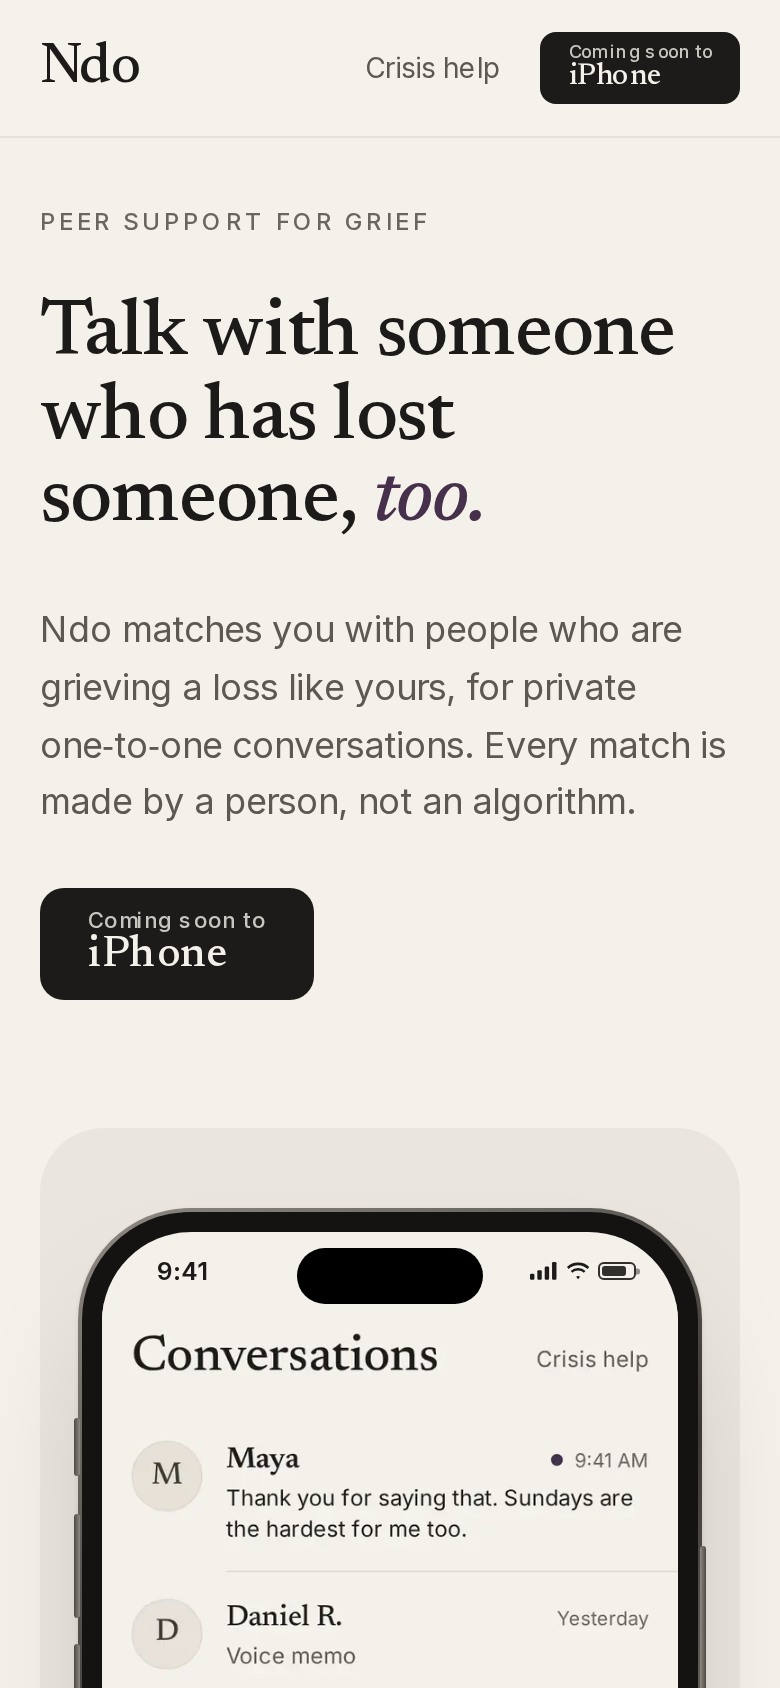
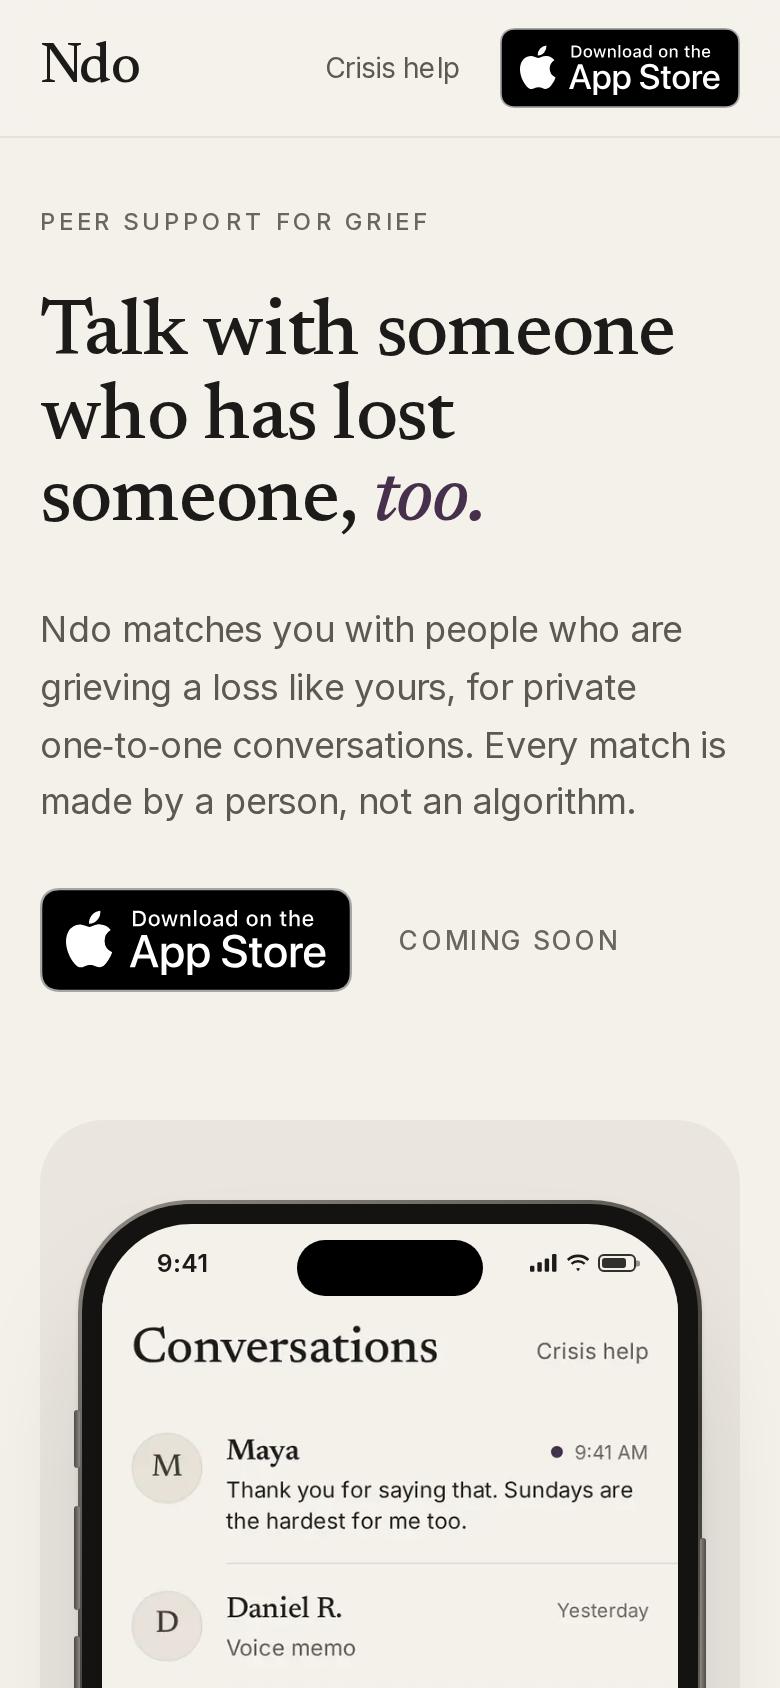
Landing page: use Apple's official App Store badge
Replace the typeset "Coming soon to iPhone" badge with Apple's official
"Download on the App Store" artwork (black on light, white on dark), in the
hero, the closing call to action and the header. Until
NEXT_PUBLIC_APP_STORE_URL is set the badge isn't a link and carries a small
"Coming soon" note; once set it links to the listing.

Claude-Session: https://claude.ai/code/session_012wpWnDNLDnNQM6JjDCQXRp

diff --git a/web/src/app/page.tsx b/web/src/app/page.tsx
@@ -45,31 +45,31 @@ const principles = [
   },
 ];
 
-function GetTheApp() {
-  if (APP_STORE_URL) {
-    return (
-      <div className="cta">
-        <a className="button" href={APP_STORE_URL}>
-          Download for iPhone
-        </a>
-      </div>
-    );
-  }
-  return (
-    <div className="cta">
-      <ComingSoon />
-    </div>
+// Apple's official "Download on the App Store" badge (from Apple's marketing
+// tools; don't redraw or alter it). Black on light pages, white on dark.
+// Until the listing exists it isn't a link and carries a "Coming soon" note;
+// set NEXT_PUBLIC_APP_STORE_URL and it links straight to the App Store.
+function AppStoreBadge({ size = "large" }: { size?: "large" | "small" }) {
+  const badge = (
+    <span className={`badge badge-${size}`}>
+      {/* eslint-disable-next-line @next/next/no-img-element */}
+      <img className="only-light" src="/app-store-badge-black.svg" alt="Download on the App Store" />
+      {/* eslint-disable-next-line @next/next/no-img-element */}
+      <img className="only-dark" src="/app-store-badge-white.svg" alt="Download on the App Store" />
+    </span>
   );
+  if (APP_STORE_URL) {
+    return <a href={APP_STORE_URL}>{badge}</a>;
+  }
+  return badge;
 }
 
-// Shaped like an App Store badge but plainly not a link: there is no listing
-// yet. Apple's own badge replaces it once NEXT_PUBLIC_APP_STORE_URL is set.
-function ComingSoon({ compact = false }: { compact?: boolean }) {
+function GetTheApp() {
   return (
-    <span className={compact ? "soon soon-compact" : "soon"}>
-      <span className="soon-small">Coming soon to</span>
-      <span className="soon-large">iPhone</span>
-    </span>
+    <div className="cta">
+      <AppStoreBadge />
+      {!APP_STORE_URL && <span className="cta-note">Coming soon</span>}
+    </div>
   );
 }
 
@@ -88,13 +88,7 @@ export default function Home() {
           <nav className="header-links" aria-label="Page">
             <a href="#how">How it works</a>
             <a href="#crisis">Crisis help</a>
-            {APP_STORE_URL ? (
-              <a className="button button-compact" href={APP_STORE_URL}>
-                Get the app
-              </a>
-            ) : (
-              <ComingSoon compact />
-            )}
+            <AppStoreBadge size="small" />
           </nav>
         </div>
       </header>

diff --git a/web/src/app/globals.css b/web/src/app/globals.css
@@ -234,51 +234,40 @@ img {
   font-size: 0.875rem;
 }
 
-/* Shaped like an App Store badge, in ink. Not a link: there's no listing yet. */
-.soon {
-  display: inline-flex;
-  flex-direction: column;
-  justify-content: center;
-  min-height: 3.5rem;
-  padding: 0 1.5rem;
-  border-radius: 0.75rem;
-  background: var(--ink);
-  color: var(--paper);
-  line-height: 1.1;
-  cursor: default;
-  user-select: none;
+/* Apple's badge artwork. Apple's minimum on-screen height is 40px. */
+.badge {
+  display: inline-block;
+  line-height: 0;
 }
 
-.soon-small {
-  font-size: 0.6875rem;
-  font-weight: 500;
-  letter-spacing: 0.02em;
-  opacity: 0.8;
+.badge img {
+  width: auto;
+  max-width: none;
 }
 
-.soon-large {
-  font-family: var(--serif);
-  font-size: 1.375rem;
-  font-weight: 500;
-  letter-spacing: -0.01em;
+.badge-large img {
+  height: 3.25rem;
 }
 
-.soon-compact {
-  min-height: 2.25rem;
-  padding: 0 0.875rem;
+.badge-small img {
+  height: 2.5rem;
+}
+
+a:has(> .badge) {
+  display: inline-block;
   border-radius: 0.5rem;
+  transition: opacity 150ms ease;
 }
 
-.soon-compact .soon-small {
-  font-size: 0.5625rem;
-}
-
-.soon-compact .soon-large {
-  font-size: 0.9375rem;
+a:has(> .badge):hover {
+  opacity: 0.85;
 }
 
 .cta-note {
-  font-size: 0.9375rem;
+  font-size: 0.8125rem;
+  font-weight: 500;
+  letter-spacing: 0.12em;
+  text-transform: uppercase;
   color: var(--ink-3);
 }
 

diff --git a/docs/redesign/README.md b/docs/redesign/README.md
@@ -68,8 +68,9 @@ Sections, top to bottom: hero with the app, a short statement, how it works
 to expect (people not AI, adults only, you're in control, peer support not
 therapy), crisis help, and a closing call to action.
 
-Until `NEXT_PUBLIC_APP_STORE_URL` is set, the call to action reads "Coming soon
-to iPhone". Still needed before launch: privacy policy and terms pages, a
+The call to action is Apple's official "Download on the App Store" badge. Until
+`NEXT_PUBLIC_APP_STORE_URL` is set it carries a "Coming soon" note and doesn't
+link anywhere. Still needed before launch: privacy policy and terms pages, a
 favicon and share image, and the domain.
 
 ## Viewing it yourself

diff --git a/web/README.md b/web/README.md
@@ -18,8 +18,10 @@ npm run lint
 
 Both are optional; see `.env.example`.
 
-- `NEXT_PUBLIC_APP_STORE_URL` — once set, the "Coming soon to iPhone" label
-  becomes a download button.
+- `NEXT_PUBLIC_APP_STORE_URL` — until it's set, Apple's "Download on the App
+  Store" badge shows with a "Coming soon" note and doesn't link anywhere; once
+  set, the badge links to the listing and the note goes away. The badge SVGs in
+  `public/` are Apple's official artwork: don't redraw or recolor them.
 - `NEXT_PUBLIC_SUPPORT_EMAIL` — shown in the footer.
 
 ## Copy
